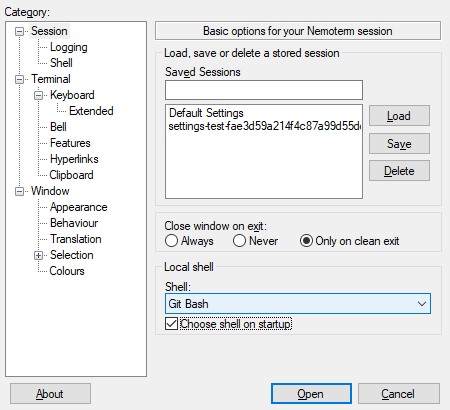
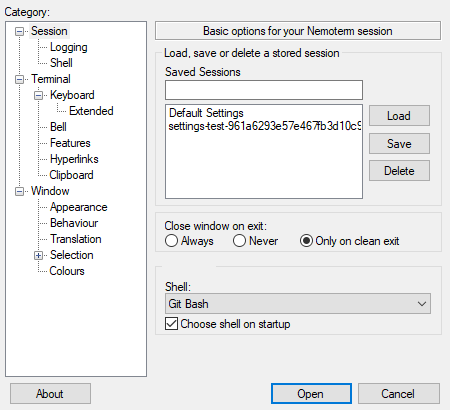
Validate source-linked single executable across native terminal suites

Changed region(s): [[0.3422, 0.7024, 0.9644, 0.7902], [0.4978, 0.2927, 0.8089, 0.322], [0.3422, 0.6439, 0.4978, 0.6732]]

diff --git a/tests/clipboard_test_utils.py b/tests/clipboard_test_utils.py
@@ -1,9 +1,9 @@
-"""Preserve HGLOBAL clipboard formats around tests of an owned HWND.
+"""Preserve HGLOBAL, bitmap and palette clipboard formats for an owned HWND.
 
 Refuse unsupported handle formats before modifying anything. If another
 application changes the clipboard during the test, leave its new content alone.
 """
-from native_test_utils import c, w, u, k, wait_for
+from native_test_utils import c, w, u, g, k, wait_for
 
 u.OpenClipboard.argtypes = [w.HWND]
 u.GetClipboardOwner.restype = w.HWND
@@ -14,6 +14,21 @@ k.GlobalLock.argtypes, k.GlobalLock.restype = [w.HANDLE], c.c_void_p
 k.GlobalUnlock.argtypes = [w.HANDLE]
 k.GlobalAlloc.argtypes, k.GlobalAlloc.restype = [w.UINT, c.c_size_t], w.HANDLE
 k.GlobalFree.argtypes = [w.HANDLE]
+ole = c.windll.ole32
+ole.OleDuplicateData.argtypes = [w.HANDLE, w.WORD, w.UINT]
+ole.OleDuplicateData.restype = w.HANDLE
+# https://learn.microsoft.com/windows/win32/api/ole2/nf-ole2-oleduplicatedata
+# These clipboard entries are GDI objects, not GlobalAlloc blocks.
+GDI_FORMATS = (2, 9, 0x82)  # CF_BITMAP, CF_PALETTE, CF_DSPBITMAP
+
+def duplicate_gdi(fmt, handle):
+    return ole.OleDuplicateData(handle, 2 if fmt == 0x82 else fmt, 0)
+
+def free_saved_handle(fmt, handle):
+    if fmt in GDI_FORMATS:
+        g.DeleteObject(handle)
+    else:
+        k.GlobalFree(handle)
 
 class SavedClipboard:
     def __init__(self, hwnd):
@@ -23,6 +38,11 @@ class SavedClipboard:
             fmt = 0
             while (fmt := u.EnumClipboardFormats(fmt)):
                 handle = u.GetClipboardData(fmt)
+                if fmt in GDI_FORMATS:
+                    copied = duplicate_gdi(fmt, handle)
+                    assert copied, f'Cannot preserve GDI clipboard format {fmt}; nothing was modified'
+                    self.saved.append((fmt, copied))
+                    continue
                 size = k.GlobalSize(handle)
                 assert size, f'Cannot preserve clipboard format {fmt}; nothing was modified'
                 ptr = k.GlobalLock(handle)
@@ -31,11 +51,21 @@ class SavedClipboard:
                     self.saved.append((fmt, c.string_at(ptr, size)))
                 finally:
                     k.GlobalUnlock(handle)
+        except BaseException:
+            self.dispose()
+            raise
         finally:
             u.CloseClipboard()
 
+    def dispose(self):
+        for fmt, data in self.saved:
+            if fmt in GDI_FORMATS:
+                g.DeleteObject(data)
+        self.saved = []
+
     def restore(self):
         if u.GetClipboardOwner() != self.hwnd:
+            self.dispose()
             return
         wait_for(lambda: u.OpenClipboard(self.hwnd))
         pending = []
@@ -43,6 +73,11 @@ class SavedClipboard:
             if u.GetClipboardOwner() != self.hwnd:
                 return
             for fmt, data in self.saved:
+                if fmt in GDI_FORMATS:
+                    handle = duplicate_gdi(fmt, data)
+                    assert handle
+                    pending.append((fmt, handle))
+                    continue
                 handle = k.GlobalAlloc(2, len(data))
                 assert handle
                 pending.append((fmt, handle))
@@ -56,8 +91,9 @@ class SavedClipboard:
                     raise c.WinError()
                 pending.pop(0)  # clipboard now owns the handle
         finally:
-            for _, handle in pending:
-                k.GlobalFree(handle)
+            for fmt, handle in pending:
+                free_saved_handle(fmt, handle)
+            self.dispose()
             u.CloseClipboard()
 
 def clipboard_text(hwnd):

diff --git a/research/single-executable.md b/research/single-executable.md
@@ -1,16 +1,17 @@
 # Source-built console host in one executable
 
-## Decision and current validation boundary
+## Decision and verified source build
 
 The user requested source reuse of OpenConsole/ConPTY and a final single
-`nemoterm.exe` (2026-11-12). The implementation being validated links the native
+`nemoterm.exe` (2026-11-12). The implementation links the native
 PuTTY-derived frontend, Microsoft's `conptylib`, and OpenConsole host into one PE.
 It launches that same image with `--headless` for the console server. This is
 one executable file, with separate frontend, host and shell processes. It does
 not extract embedded executables, replace Windows system files, or register a
-default console handler. A source build and native runtime tests must succeed
-before this becomes the default deliverable; the existing MinGW bundle remains
-the tested baseline during integration.
+default console handler. The source build and initial native tests passed in
+[CI run 43152218663](https://github.com/xiongnemo/nemoterm/actions/runs/43152218663).
+The single-file artifact is now the primary deliverable; the MinGW sidecar bundle
+remains a separate compiler/backend comparison build.
 
 Microsoft Terminal is a pinned Git submodule at
 `f6de9e0618015def1c9dda5b82f9d3abf03eb799`. Both OpenConsole and the ConPTY
@@ -50,15 +51,51 @@ entrypoint, dispatches only a leading `--headless`, disables incoming COM handof
 and omits the Windows Terminal UI dependency feature. Renderer build flags stay
 at upstream defaults; headless operation does not construct the visible renderer.
 The underlying console protocol/server implementation remains Microsoft's.
-The frontend uses the three statically linked Conpty functions as one ABI unit;
+The frontend uses the four statically linked Conpty functions as one ABI unit,
+including ReleasePseudoConsole for delegated process lifetime;
 `NEMOTERM_CONPTY=system` remains an explicit diagnostic override.
 
-## Remaining acceptance
+## Downloaded artifact and isolation evidence
 
-Build and download the CI artifact; inspect its dependencies; copy only its EXE
-to an empty path containing spaces/Unicode and exercise console creation,
-keyboard/mouse, resize, Sixel, clipboard and settings. Verify the hidden host is
-the same image and no sidecar executable/DLL is created. Record private working
-set, total working set and private commit separately for frontend and host.
-Shell selection/detection (including Windows PowerShell, pwsh, BusyBox ash,
-Git Bash, and installed WSL distributions) remains a separate active requirement.
+Commit `855dbd81b6c30d3476b70ecc963084741ff01326` produced a 1,633,792-byte EXE,
[1 lines of base64/hex data omitted]
+REA inspected all 79 import descriptors (597 ordinary and 11 delayed functions)
+without parse issues. `single-exe-rea-evidence.json` retains the complete table:
+Windows system/API-set DLLs, including system UCRT and delayed ICU; no conpty.dll,
+OpenConsole sidecar or external MSVC redistributable DLL. Import inspection is
+static evidence and does not claim every imported function executed.
+
+The downloaded file ran alone from an otherwise empty directory containing
+spaces and Chinese characters. The native fixture observed a second process
+with the exact same executable path, tested a child surviving its initial
+launcher, verified clean final shutdown, and checked the directory still
+contained only the EXE. Embedded licence output was 27,091 bytes.
+`single-exe-observed.json` records paths, executable digest and separate memory
+samples: frontend private WS 3,788,800 / total WS 22,237,184 / private commit
+4,894,720 bytes; hidden host 1,548,288 / 10,510,336 / 2,199,552 bytes. These are
+point observations, not lifetime peaks, and the child workload is separate.
+
+`scripts/test-single-exe.ps1` copies only the EXE into its own dist directory
+and runs 20 native groups plus two additional keyboard font/configuration cases.
+The workflow retains all JSON, PrintWindow captures and logs separately from
+the one-file download. Shell detection/default selection is implemented and
+documented in [shell-selection.md](shell-selection.md).
+
+All 20 groups and both additional keyboard cases passed locally for the artifact
+above. `single-exe-validation.json` lists cases and hashes of the original JSON
+observations. The mixed 6,000-link / 800-Sixel workload continuously sampled
+frontend peaks of 9,314,304 bytes private WS, 35,516,416 total WS and 10,670,080
+private commit. Reflow peaked at 7,020,544 / 24,580,096 / 8,400,896 respectively.
+No working-set trimming was used. These workload-specific frontend peaks do
+not include the host or shell, and do not establish bounds for every workload.
+All six locally available shells, including WSL Debian Bash, ran an interactive
+marker command and exited; temporary settings persisted Git Bash and the startup
+chooser while leaving the user's Default Settings unchanged.
+
+The first full local run stopped before modifying an existing bitmap clipboard,
+because the test helper only understood HGLOBAL formats. The helper now uses
+documented OleDuplicateData handling for bitmap/palette objects, releases private
+copies, and leaves a newer external clipboard owner alone. The affected native
+tests then passed with the image clipboard retained. Remaining terminal protocol,
+physical IME, multi-monitor DPI and long-running real-agent acceptance are tracked
+separately in the requirements ledger.

diff --git a/docs/REQUIREMENTS.md b/docs/REQUIREMENTS.md
@@ -11,7 +11,8 @@ MIT-licensed PuTTY 0.85 C sources, not a promise that upstream already implement
   with its memory reported separately. Do not call a sidecar bundle a single EXE.
 * Startup shell choice and persisted default: detect pwsh, Windows PowerShell,
   BusyBox ash, Git Bash and WSL Bash with installed distributions, retaining cmd
-  as a fallback. Detection and launch validation are still active work.
+  as a fallback. Implemented: all six local shells passed real interactive launch
+  and exit, with native settings save/reload; see `research/shell-selection.md`.
 * Per-window **private working set <20 MB**; total working set approximately 50 MB,
   clarified by user 2026-11-12. Record bytes, decimal MB and MiB; no forced working-set trimming.
   Child shell, ConPTY host and agent must be reported separately, not silently excluded from totals.
